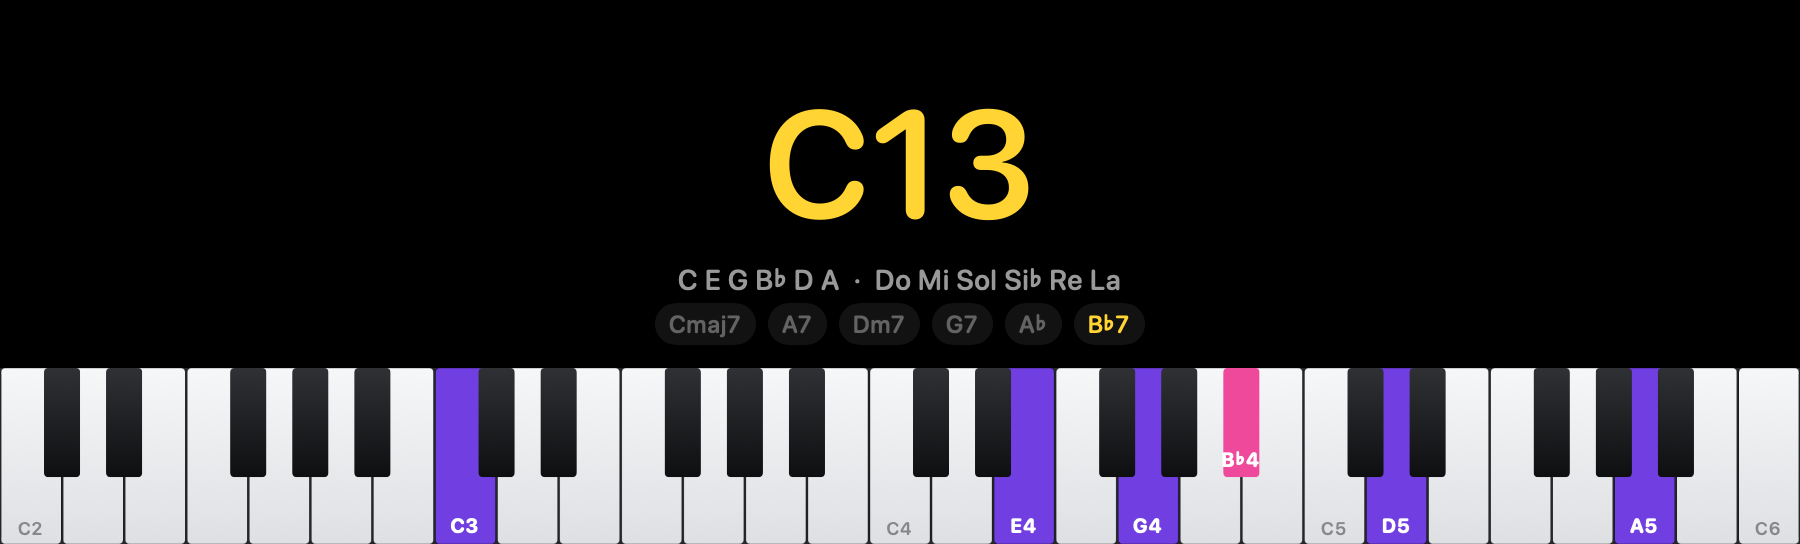
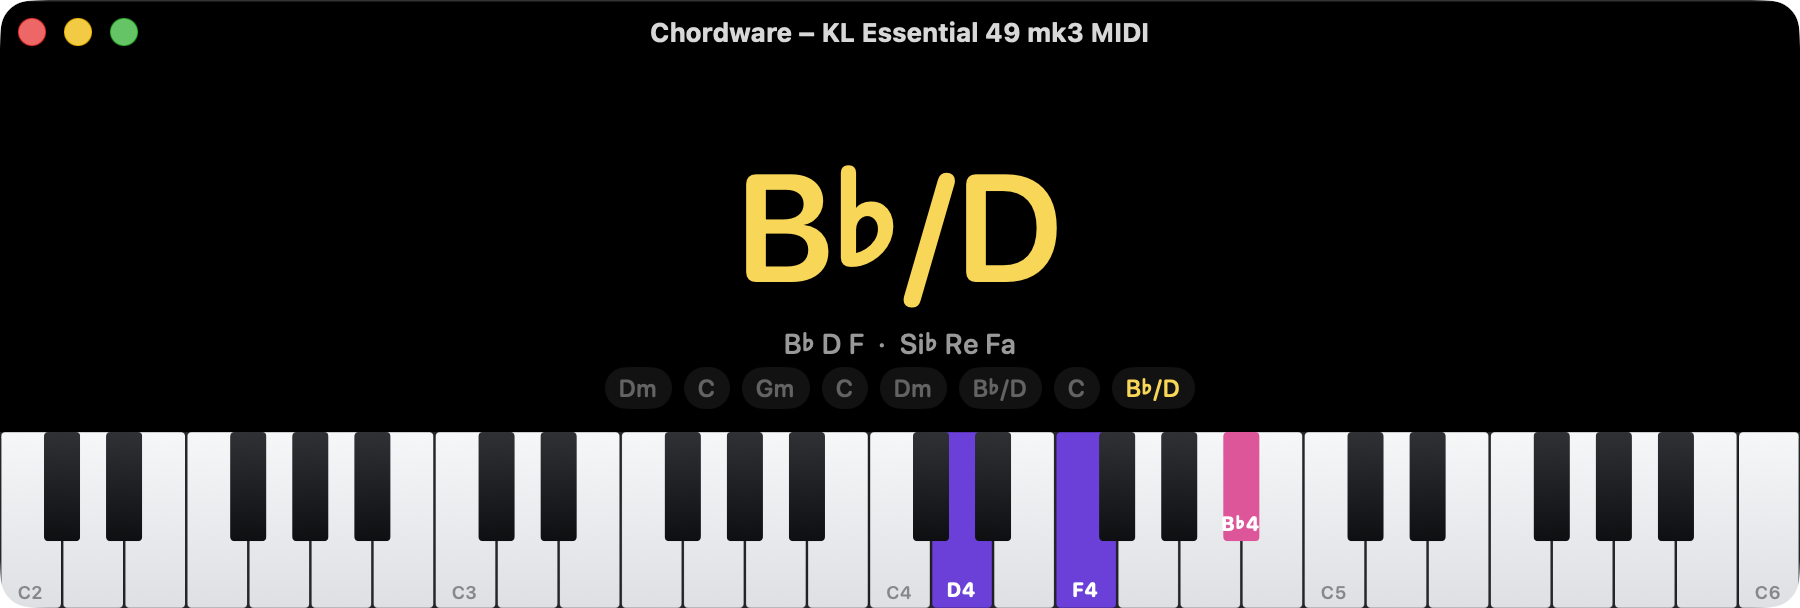
A screenshot of the real window
The old picture was a render of the window's contents, with no title
bar -- so it could not show the title, now centred, naming the keyboard.
This one is the window itself, captured while playing: a Bb/D, which
also shows a flat, the pink black key among the violet whites, notes
named with their octaves, and a full history strip.

diff --git a/README.md b/README.md
@@ -2,7 +2,7 @@
 
 A piano keyboard for your Mac that names what you play.
 
-![Chordware showing a C13 chord, with the keys lit and the last few chords along the bottom](docs/chordware.png)
+![Chordware showing a B♭/D chord, with the keys lit and the last few chords along the bottom](docs/chordware.png)
 
 Play your MIDI keyboard and Chordware shows the chord, lights up the keys you
 are holding, and keeps the last few chords along the bottom. Click one to put it
